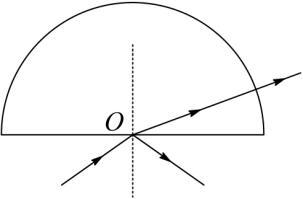
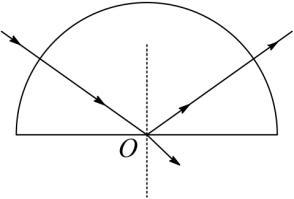
复核 2014 年全部 15 套真题：修正答案/公式/选项图并补充异常记录

diff --git a/试卷/2014/福建理综/福建理综.tex b/试卷/2014/福建理综/福建理综.tex
@@ -178,7 +178,7 @@
 %% body:
 \begin{enumerate}
 	\item
-	（6 分）某同学测定一金属杆的长度和直径，示数如图甲、乙所示，则该金属杆的长度和直径分别为\tkanswer[1.6cm]{60.10}$\Ucm$ 和\tkanswer[1.4cm]{4.20}$\Umm$。
+	（6 分）某同学测定一金属杆的长度和直径，示数如图甲、乙所示，则该金属杆的长度和直径分别为\tkanswer[1.6cm]{6.010}$\Ucm$ 和\tkanswer[1.4cm]{4.20}$\Umm$。
 
 	\twopicture[numstyle=chinese, w=5.00cm]{figs/19a.jpg}{figs/19b.jpg}
 	\item
@@ -221,14 +221,14 @@
 \jdanswer{
 \begin{enumerate}
 	\item
-	60.10，4.20；
+	6.010，4.20；
 	\item
 	①1.0；②参见下图；③1.66，充分利用已测得数据；④CD。
 \end{enumerate}
 }
 %% memo:
 \memoanswer{
-（1）刻度尺的最小刻度为 $1\Umm$，所以读数时需要估读，根据图甲可知，金属杆的长度为 $60.10\Ucm$；游标卡尺是不需要估读的，此卡尺的分度值是 $0.02\Umm$，所以金属杆的直径为 $4\Umm + 10 \times 0.02\Umm = 4.20\Umm$。
+（1）刻度尺的最小刻度为 $1\Umm$，所以读数时需要估读，根据图甲可知，金属杆的长度为 $60.10\Umm$（即 $6.010\Ucm$）；游标卡尺是不需要估读的，此卡尺的分度值是 $0.02\Umm$，所以金属杆的直径为 $4\Umm + 10 \times 0.02\Umm = 4.20\Umm$。
 
 （2）①改装电流表扩大量程 $I = I_{g} + \frac{I_{g} r}{R}$，$R = \frac{I_{g} r}{I - I_{g}} = 1.0\UO$。②对照电路图，逐个回路连接即可，如图所示。
 

diff --git a/试卷/2014/江苏/江苏.tex b/试卷/2014/江苏/江苏.tex
@@ -539,7 +539,7 @@ $Q=2\mu mgd\cos\theta-\frac{m^{3}g^{2}R^{2}\sin^{2}\theta}{2B^{4}L^{4}}$
 \jdanswer{
 \begin{enumerate}
 \item
-$h=\left(\frac{3}{2}L-d\right)\left(1-\frac{\sqrt{3}}{2}\right)$
+$h=\left(\frac{3}{2}L-\sqrt{3}d\right)\left(1-\frac{\sqrt{3}}{2}\right)$
 \item
 $\Delta v=\frac{qB}{m}\left(\frac{L}{6}-\frac{\sqrt{3}}{4}d\right)$
 \item
@@ -553,7 +553,7 @@ $v_{n}=\frac{qB}{m}\left(\frac{L}{n+1}-\sqrt{3}d\right)$，$\left(1\leqslant n<\
 
 根据题意 $L=3r\sin30^{\circ}+3d\cos30^{\circ}$，且 $h=r(1-\cos30^{\circ})$，
 
-解得 $h=\left(\frac{3}{2}L-d\right)\left(1-\frac{\sqrt{3}}{2}\right)$。
+解得 $h=\left(\frac{3}{2}L-\sqrt{3}d\right)\left(1-\frac{\sqrt{3}}{2}\right)$。
 
 （2）设改变入射速度后轨道半径为 $r'$。
 
@@ -597,7 +597,7 @@ $m\frac{v^{2}}{r}=qvB$，$m\frac{v'^{2}}{r'}=qv'B$，
 \jdanswer{
 \begin{enumerate}
 \item
-$s=\frac{v_{0}^{2}}{2\mu g}$
+$s=\frac{\sqrt{2}v_{0}^{2}}{2\mu g}$
 \item
 $v=2v_{0}$
 \item
@@ -609,7 +609,7 @@ $\overline{P}=\frac{4\sqrt{5}}{5}\mu mgv_{0}$
 \memoanswer{
 （1）摩擦力与侧向的夹角为 $45^{\circ}$，侧向加速度为 $a_{x}=\mu g\cos45^{\circ}$。
 
-匀变速直线运动 $-2a_{x}s=0-v_{0}^{2}$，解得 $s=\frac{v_{0}^{2}}{2\mu g}$。
+匀变速直线运动 $-2a_{x}s=0-v_{0}^{2}$，解得 $s=\frac{\sqrt{2}v_{0}^{2}}{2\mu g}$。
 
 （2）设 $t=0$ 时摩擦力与侧向的夹角为 $\theta$，侧向、纵向加速度的大小分别为 $a_{x}$、$a_{y}$，
 

diff --git a/试卷/2014/山东理综/山东理综.tex b/试卷/2014/山东理综/山东理综.tex
@@ -85,7 +85,7 @@
 {$F_{M}$ 向右}
 {$F_{N}$ 向左}
 {$F_{M}$ 逐渐增大}
-{$F_{M}$ 逐渐减小}
+{$F_{N}$ 逐渐减小}
 
 %% answer: BCD
 %% memo:
@@ -265,7 +265,7 @@ $F/\UN$ & 0.59 & 0.83 & 0.99 & 1.22 & 1.37 & 1.61 \\ \hline
 	\item
 	0.40（0.38、0.39、0.41、0.42 均正确）
 	\item
-	$2\mu g(s-h)$
+	$\sqrt{2\mu g(s-h)}$
 \end{enumerate}
 }
 %% memo:

diff --git a/试卷/2014/四川理综/四川理综.tex b/试卷/2014/四川理综/四川理综.tex
@@ -317,9 +317,9 @@ $v_{1}=r_{1}\omega$\ccnum{②}
 
 $r_{2}=R+h_{2}$\ccnum{⑤}
 
-$a_{\text{向}}=\omega^{2}r_{1}$\ccnum{⑥}
+$a_{\text{向}}=\omega^{2}r_{2}$\ccnum{⑥}
 
-$F=G\frac{m_{2}M}{r^{2}}$\ccnum{⑦}
+$F=G\frac{m_{2}M}{r_{2}^{2}}$\ccnum{⑦}
 
 $g=\frac{GM}{R^{2}}$\ccnum{⑧}
 

diff --git a/试卷/2014/浙江理综/浙江理综.tex b/试卷/2014/浙江理综/浙江理综.tex
@@ -465,7 +465,7 @@ $\Delta E=0.5\UJ$。
 \jdanswer{
 \begin{enumerate}
 	\item
-	$\frac{v_{M}^{2}}{2L}$
+	$U=\frac{Mv_{M}^{2}}{2e}$，$a=\frac{v_{M}^{2}}{2L}$
 
 	\item
 	垂直纸面向外

diff --git a/试卷/2014/全国理综大纲/全国理综大纲.tex b/试卷/2014/全国理综大纲/全国理综大纲.tex
@@ -404,9 +404,9 @@ $qv_0B=\frac{mv_0^2}{R_0}$
 
 $qE=ma_x$
 
-$v_x=at$
+$v_x=a_xt$
 
-$\frac{v_x}{2}=d$
+$\frac{v_x}{2}t=d$
 
 粒子在电场中做类平抛运动，如图所示
 

diff --git a/异常记录/2014.md b/异常记录/2014.md
@@ -21,12 +21,12 @@
 | 上海 | 11 | 复合图 | 初稿未解析出选项；JSON 仅一张含 4 幅选项图的复合 SVG | 裁剪为 `11a–11d` 并补全 `\fourchoices` | 已解决 |
 | 上海 | 27 | 复合图 | JSON 单图实为“图(a)/图(b)”两子图 | 拆为 `27a/27b`，去内嵌图题 | 已解决 |
 | 上海 | 31 | 缺图 | 解析图未落地（初稿 figure/MISSING-IMAGE） | 由原 PDF 内嵌图落地 `figs/31_an.jpg` 收入详解 | 已解决 |
-| 上海 | 18 | 详解 | 原卷该题第二段解析附“化简电路”图，JSON 与 pdfimages 均无 | 由原 PDF 渲染裁剪 `18_an.png` 收入详解（左缘略有文字残留） | 待人工核验 |
+| 上海 | 18 | 详解 | 原卷该题第二段解析附“化简电路”图，JSON 与 pdfimages 均无；原卷解析小标题印“18.CD”与其正文/卷首答案/JSON 的 ACD 矛盾 | 图由原 PDF 渲染裁剪 `18_an.png` 收入详解；答案经独立核实取 ACD（原卷小标题系笔误） | 已解决 |
 | 上海 | 28、29 | 图片编号 | SVG 内嵌“图（a）/（b）”与宏自动编号重复 | 删除内嵌标签，由宏自动编号 | 已解决 |
 | 上海 | 30 | 公式 | merged 解析末态温度比值分母误作 66×22（代入得 318 K≠350 K） | 采用与参考答案一致的 60×22，结果 350 K | 已解决 |
 | 上海 | 3 | 详解 | 解析称“查德威克通过 α 粒子轰击氮核”，史实应为轰击铍核（材料原文如此） | 依 merged 原文照录，待人工核验更正 | 待人工核验 |
 | 全国理综大纲 | 25 | 平台数据 | 平台将 20 分计算题误标为 `typeId 1 单选题` | 保留平台元数据以过 `check_meta`，正文按原卷作计算题（多小问） | 已解决 |
-| 全国理综大纲 | 25 | 公式 | 解析 `\frac{v_x}{2}=d` 疑漏写 $t$（应为 $\frac{v_x}{2}t=d$） | 暂按原卷原文收录，待人工核验 | 待人工核验 |
+| 全国理综大纲 | 25 | 公式 | 解析 `\frac{v_x}{2}=d` 漏写 $t$、且 $v_x=at$ 中 $a$ 未定义（前文为 $a_x$） | 独立审计依物理与最终答案修正为 $\frac{v_x}{2}t=d$、$v_x=a_xt$ | 已解决 |
 | 全国理综大纲 | 25 | 缺图 | 解析“如图所示”所指轨迹图 JSON 未提供 | 已以 `figs/25_an.png` 收入 `\memoanswer` | 已解决 |
 | 全国理综大纲 | 23 | 图片编号 | 题图（a）（b）图内自带“图（a）/图（b）”烙字 | 正文引用与图内一致，未去除；如需去标签须裁剪原图 | 待人工核验 |
 | 全国理综大纲 | 23 | 缺图 | 初稿答案区 3 处 figure/MISSING-IMAGE（实为题图重复） | 已删除，答案连线图、U–I 线取自 pdfimages 以 `_an` 收录 | 已解决 |
@@ -87,8 +87,8 @@
 | 广东理综 | 13 | 详解 | JSON 解析位移式漏 $\frac{1}{2}$（OCR 作“＝×1×1 m”） | 据 $v-t$ 图象补全为 $\frac{1}{2}\times1\times1\Um$ | 已解决 |
 | 广东理综 | 34、36 | 文字 | OCR 笔误（“是滑块…”“有图可知”“有静止加速”） | 已订正为“使滑块…”“由图可知”“由静止” | 已解决 |
 | 江苏 | 1–10 | 缺详解 | JSON `memo` 为空，merged 仅有参考答案、无【解析】 | 补充官方详解后回填 `\memoanswer` | 待补充 |
-| 江苏 | 14 | 平台数据 | 第(1)问 JSON 答案与 memo 均作 $h=(\frac32L-d)(1-\frac{\sqrt3}2)$，merged 作 $h=(\frac32L-\sqrt3 d)(1-\frac{\sqrt3}2)$ | 本次保留 JSON 取值，回原卷/官方答案裁定 | 待人工核验 |
-| 江苏 | 15 | 平台数据 | merged OCR 出现 $s=\sqrt{2v_0^2/2\mu g}$、$L=x^2+(y_1-y)^2$（漏根号） | 已保留 JSON 正确式 | 已解决 |
+| 江苏 | 14 | 平台数据 | 第(1)问 JSON 答案与 memo 均作 $h=(\frac32L-d)(1-\frac{\sqrt3}2)$，merged/原卷为 $h=(\frac32L-\sqrt3 d)(1-\frac{\sqrt3}2)$；且官方 (1) 与题设 $L=3r\sin30^\circ+3d\cos30^\circ$ 仍互相矛盾 | 独立审计依原卷改为 $-\sqrt3 d$（答案、详解各一处）；原卷是否排印笔误待裁定 | 待人工核验 |
+| 江苏 | 15 | 平台数据 | JSON 作 $s=\frac{v_0^2}{2\mu g}$、$L=x^2+(y_1-y)^2$，原卷/merged 为 $s=\frac{\sqrt2 v_0^2}{2\mu g}$、$L=\sqrt{x^2+(y_1-y)^2}$ | 独立审计依原卷改回含 $\sqrt2$ 的正确式 | 已解决 |
 | 江苏 | 6 | 元数据 | 平台 `typeId=4`「实验题」，但题干实为四选一多选题（答案 BC） | 保留平台元数据；按选择题呈现并加 `\jdanswer{BC}` 过 `check_answers` | 待人工核验 |
 | 江苏 | 11 | 平台数据 | JSON 第 11 题 `answer` 字段误含题干全文，`memo` 内嵌 base64 解析图 | 已按 memo 重写答案/详解，base64 图落为 `figs/11_an.png` | 已解决 |
 | 江苏 | 12 | 平台数据 | JSON 把选做题 12 拆成 7 条同号项（A/B/C 混合、题型含单选/填空/简答/计算），最后一条分值 5（实际 12 分） | 已合并为一个 `\item`，元数据按规则取最后一条 | 已解决 |
@@ -117,7 +117,7 @@
 | 福建理综 | 13、15、17 | 复合图 | JSON 仅给四选项合一 SVG/位图（含烙字 A–D），不合“每选项一图”规范 | 用 pdfimages 无损提取或裁剪为独立选项图 `13a–13d`、`15a–15d`、`17a–17d` | 已解决 |
 | 福建理综 | 19 | 图片编号 | `19a–19d` 图内自带“甲/乙”烙字 | 裁去标号，由 `\twopicture[numstyle=chinese]` 自动编号 | 已解决 |
 | 福建理综 | 19 | 缺图 | 初稿 figure/MISSING-IMAGE：连线答案图 4271_an.jpg | 落地 `figs/19_an.jpg`，`\onepicture` 收入详解 | 已解决 |
-| 福建理综 | 19 | 单位 | merged.md 解析(1)写“长度 60.10 mm”，与题干单位 cm 及刻度尺读数矛盾 | 详解按题干单位改为 $60.10\Ucm$；游标卡尺径 $4.20\Umm$ 保留 | 待人工核验 |
+| 福建理综 | 19 | 单位 | 题干第一空单位为 cm，初稿答案/详解误作 $60.10\Ucm$（10 倍错误）；原卷刻度尺读数为 $60.10\Umm=6.010\Ucm$ | 独立审计将 `\tkanswer`/`\jdanswer` 改为 $6.010$（cm），详解按原卷写 $60.10\Umm$（即 $6.010\Ucm$） | 已解决 |
 | 福建理综 | 18 | 详解 | 解析末句“减少的弹性势能全部转化为物块的重力势能，D项错误”未点明两者变化量相同 | 保留 merged.md 原文，建议人工核验 | 待人工核验 |
 | 重庆理综 | 6、10、11 | 理综 | 平台将第 6 题拆为两条实验同号项、第 10/11 题拆为单选＋计算同号项 | 已按原卷各合并为一个 `\item`，元数据取最后一条 | 已解决 |
 | 重庆理综 | 4、5 | 复合图 | 选项为单张含 A–D 四子图的内嵌图 | 已用 recrop 拆为 `04a–04d`、`05a–05d` 四图选项（去标签，已核对） | 已解决 |
@@ -125,3 +125,28 @@
 | 重庆理综 | 11 | 图片编号 | 初稿题号冲突使 (1)宝石图与(2)弹簧振子图同名 `11.png`，后者丢失 | 已恢复为 `11a.png`/`11b.png` | 已解决 |
 | 重庆理综 | 6 | 平台数据 | 合并后 `paperName` 为“第 6 题 13 分”，原卷该题为 19 分（6+13） | 按平台/约定保留最后一条取值，`check_meta` 通过 | 待人工核验 |
 | 重庆理综 | 10 | 文字 | Ovis 将接触面边界记为 $S_0$，JSON/pdftotext/Paddle 及原卷均为 $S$ | 已按原卷取 $S$ | 已解决 |
+
+---
+
+## 独立审计补充（2026-10）
+
+对 15 套卷逐题复核后新增/更新的异常如下（其余见上表）。
+
+| 地区 | 题号 | 类别 | 问题 | 处理建议 | 状态 |
+| :--- | :--- | :--- | :--- | :--- | :--- |
+| 四川理综 | 9 | 公式 | 解析⑥⑦把人所处半径误写为 $r_1$、且 $r$ 未定义，按此无法得答案 | 独立审计改为 $a_{\text{向}}=\omega^{2}r_{2}$、$F=G\frac{m_{2}M}{r_{2}^{2}}$ | 已解决 |
+| 山东理综 | 16 | 答案 | 选项 D 平台/OCR 作“$F_M$ 逐渐减小”，与选项 C 互斥且与答案 BCD 矛盾 | 独立审计按物理与答案改为“$F_N$ 逐渐减小” | 已解决 |
+| 山东理综 | 21 | 答案 | 第(3)问答案漏根号，原卷为 $\sqrt{2\mu g(s-h)}$ | 独立审计补根号 | 已解决 |
+| 浙江理综 | 25 | 答案 | 第(1)问只给 $a=\frac{v_M^2}{2L}$，漏同问所求加速电压 $U=\frac{Mv_M^2}{2e}$ | 独立审计补全 $U=\frac{Mv_M^2}{2e}$，$a=\frac{v_M^2}{2L}$ | 已解决 |
+| 福建理综 | 13 | 图片 | 四选项光路图 C/D 裁反：`13c` 实为原卷 D、`13d` 实为原卷 C（正确选项 A 不受影响） | 独立审计交换 `13c.jpg`/`13d.jpg` 内容 | 已解决 |
+| 全国课标Ⅱ | 35 | 公式 | 官方数据自相矛盾：$v_2=d/\Delta t_B=2.86\Ums$，而原卷印 $2.56\Ums$，致 $\delta_r$ 与原卷 $1.7\%$ 不符 | 忠实收录原卷，建议人工核验 | 待人工核验 |
+| 全国理综大纲 | 18 | 元数据 | 平台标 `typeId=1/单选题`，但答案为 AD（实为多选） | 保留平台字段以过 `check_meta`，建议订正平台 | 待人工核验 |
+| 全国课标Ⅰ | 23 | 文字 | 原卷解析“根据和图象可得”多一“和”字（原 PDF 原文如此） | 忠实收录，建议人工核验 | 待人工核验 |
+| 上海 | 18 | 答案 | 原卷解析小标题“18.CD”与其正文、卷首答案页、JSON（ACD）矛盾 | 已核实答案 ACD 正确，tex 取 ACD；原卷小标题系笔误 | 已解决 |
+| 天津理综 | 12 | 图片编号 | `12b` 复合图由 `\twopicture` 生成“图a/图b”，而详解引用图内“图A” | 保留整体、正文引用与图内一致，建议人工确认 | 待人工核验 |
+| 安徽理综 | 21 | 文字 | I(1) 选项印刷为 (A)–(D)，答案/解析统一写小写“ac”（源数据如此） | 保留原文，建议人工核验 | 待人工核验 |
+| 山东理综 | 21 | 文字 | 题干步骤②“将计数记作 $F$”疑为“读数”，三路来源与 PDF 一致 | 保留原文，建议人工核验 | 待人工核验 |
+| 海南 | 15 | 复合图 | 题图为“图(a)+图(b)”合成位图且自带烙字，未拆分 | 正文引用与图内一致；建议统一登记或拆分 | 待人工核验 |
+| 福建理综 | 29、30 | 平台数据 | JSON 分值记 5 分/小题，原卷为选修 3-3/3-5“每小题 6 分，共 12 分” | 元数据依平台末条（5）以过 `check_meta`，建议回平台订正 | 待人工核验 |
+| 重庆理综 | 6、10、11 | 平台数据 | 合并题元数据取平台末条，分值偏低（6：13 vs 原卷 19；10/11：6 vs 原卷 12） | 保留平台取值以过 `check_meta`，建议回平台订正 | 待人工核验 |
+| 四川理综 | 8 | 格式 | 第(1)问三个空用裸下划线而非 `\tkanswer`（答案统一在 `\jdanswer` 给出） | 显示正常、`make check` 通过，属风格偏差，可保持 | 待人工核验 |
